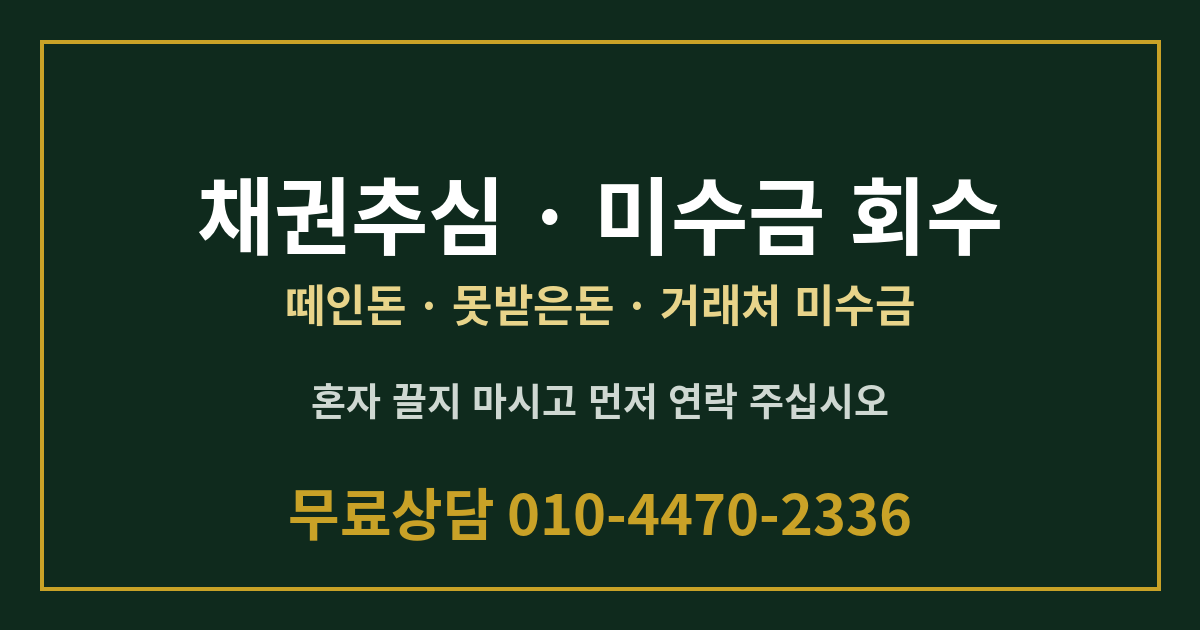
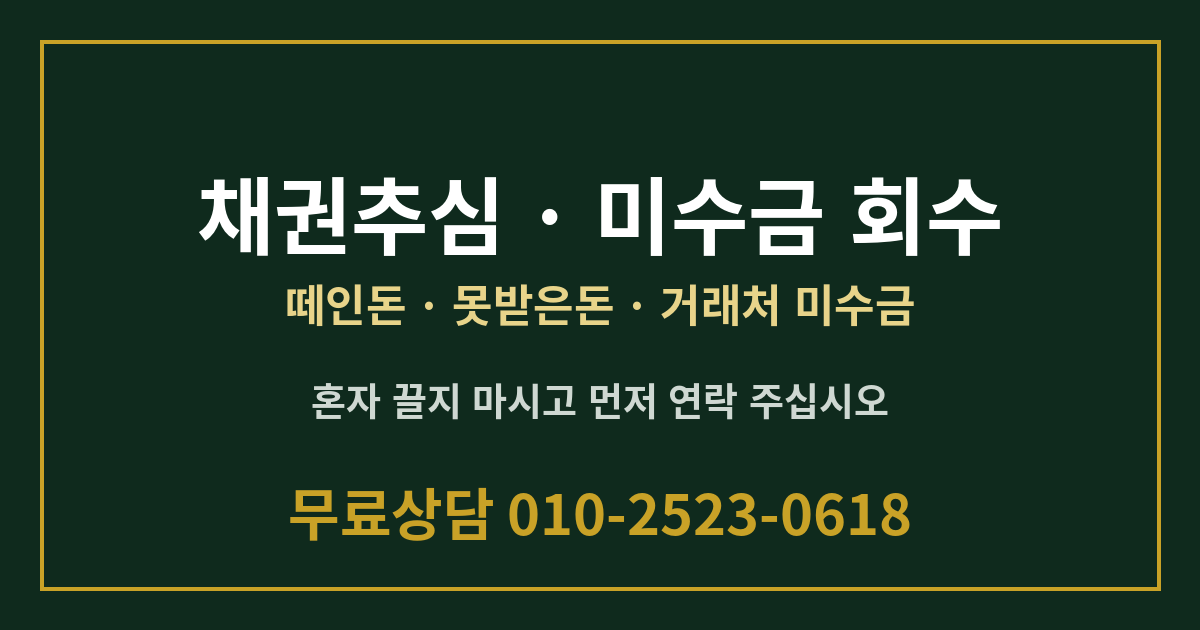
Add files via upload

Changed region(s): [[0.5242, 0.7841, 0.7708, 0.8746]]

diff --git a/admin/index.html b/admin/index.html
@@ -1,0 +1,39 @@
+<!doctype html>
+<html lang="ko"><head><meta charset="utf-8"><meta name="viewport" content="width=device-width,initial-scale=1">
+<meta name="robots" content="noindex,nofollow"><title>글쓰기</title>
+<style>body{font:16px/1.6 "Malgun Gothic",sans-serif;background:#f3f5f4;margin:0}main{max-width:720px;margin:0 auto;padding:20px 16px}
+h1{font-size:22px;color:#03c75a}input,textarea{width:100%;padding:10px;margin:6px 0 14px;border:1px solid #ccd;border-radius:8px;font:inherit}
+textarea{min-height:360px}button{background:#03c75a;color:#fff;border:0;padding:12px 26px;border-radius:8px;font:700 16px inherit;cursor:pointer}
+button.s{background:#999;padding:8px 14px;font-size:13px}label{font-weight:700;font-size:14px}#msg{margin-top:14px;font-weight:700}.box{background:#fff;padding:18px;border-radius:12px}</style></head>
+<body><main><h1>글쓰기</h1><div id="v" class="box"></div><div id="msg"></div></main>
+<script>
+const R='mopp13-boop/mopp13-boop.github.io',$=id=>document.getElementById(id),E=new TextEncoder(),D=new TextDecoder();
+const b64=u=>{let s='';for(let i=0;i<u.length;i+=8192)s+=String.fromCharCode(...u.subarray(i,i+8192));return btoa(s)};
+const ub=s=>Uint8Array.from(atob(s),c=>c.charCodeAt(0));
+async function key(p,salt){const m=await crypto.subtle.importKey('raw',E.encode(p),'PBKDF2',false,['deriveKey']);
+return crypto.subtle.deriveKey({name:'PBKDF2',salt,iterations:250000,hash:'SHA-256'},m,{name:'AES-GCM',length:256},false,['encrypt','decrypt'])}
+async function lock(t,p){const s=crypto.getRandomValues(new Uint8Array(16)),iv=crypto.getRandomValues(new Uint8Array(12));
+const c=new Uint8Array(await crypto.subtle.encrypt({name:'AES-GCM',iv},await key(p,s),E.encode(t)));return JSON.stringify([b64(s),b64(iv),b64(c)])}
+async function unlock(p){const[s,i,c]=JSON.parse(localStorage.vault).map(ub);return D.decode(await crypto.subtle.decrypt({name:'AES-GCM',iv:i},await key(p,s),c))}
+let T='';const say=(t,ok)=>{$('msg').style.color=ok?'#03a04a':'#d33';$('msg').textContent=t};
+function setup(){$('v').innerHTML='<p>처음 한 번만 설정합니다. GitHub 토큰과 사용할 비밀번호를 입력하세요.</p><label>GitHub 토큰</label><input id=t type=password><label>새 비밀번호 (6자 이상)</label><input id=p type=password><button id=b>저장</button>';
+$('b').onclick=async()=>{if($('p').value.length<6||!$('t').value)return say('토큰과 6자 이상 비밀번호를 입력하세요');localStorage.vault=await lock($('t').value.trim(),$('p').value);T=$('t').value.trim();form()}}
+function login(){$('v').innerHTML='<label>비밀번호</label><input id=p type=password><button id=b>들어가기</button> <button class=s id=r>토큰 다시 등록</button>';
+$('b').onclick=async()=>{try{T=await unlock($('p').value);say('');form()}catch(e){say('비밀번호가 틀렸습니다')}};
+$('p').onkeydown=e=>{if(e.key=='Enter')$('b').click()};$('r').onclick=()=>{localStorage.removeItem('vault');setup()}}
+function form(){$('v').innerHTML='<label>제목</label><input id=ti><label>요약 (검색 결과에 보일 설명, 비우면 본문 앞부분)</label><input id=de><label>대표 이미지 (썸네일, 선택)</label><input id=im type=file accept="image/*"><label>내용 (문단 사이는 한 줄 비우기)</label><textarea id=bo></textarea><button id=go>발행</button>';
+$('go').onclick=publish}
+function shrink(f){return new Promise(r=>{const i=new Image();i.onload=()=>{const s=Math.min(1,1200/i.width),c=document.createElement('canvas');c.width=i.width*s;c.height=i.height*s;c.getContext('2d').drawImage(i,0,0,c.width,c.height);c.toBlob(async b=>r(new Uint8Array(await b.arrayBuffer())),'image/jpeg',.85)};i.src=URL.createObjectURL(f)})}
+async function put(path,b,msg){return fetch(`https://api.github.com/repos/${R}/contents/${encodeURI(path)}`,{method:'PUT',headers:{Authorization:'Bearer '+T,Accept:'application/vnd.github+json'},body:JSON.stringify({message:msg,content:b,branch:'main'})})}
+async function publish(){const ti=$('ti').value.trim(),bo=$('bo').value.trim();if(!ti||!bo)return say('제목과 내용을 입력하세요');
+$('go').disabled=true;say('발행 중입니다...',1);
+try{const k=new Date(Date.now()+324e5),ymd=k.toISOString().slice(0,10),full=ymd+' '+k.toISOString().slice(11,19)+' +0900';let ip='';
+const f=$('im').files[0];if(f){ip='assets/uploads/'+ymd+'-'+Date.now()+'.jpg';const r=await put(ip,b64(await shrink(f)),'이미지 추가');if(!r.ok)throw r}
+const de=$('de').value.trim()||bo.replace(/\s+/g,' ').slice(0,90),alt=ti.replace(/[\[\]]/g,'');
+const md=`---\ntitle: ${JSON.stringify(ti)}\ndescription: ${JSON.stringify(de)}\ndate: ${full}\n${ip?`image: /${ip}\n`:''}---\n${ip?`![${alt}](/${ip})\n\n`:''}${bo}\n`;
+let slug=ti.toLowerCase().replace(/[^0-9a-z가-힣\s-]/g,'').trim().replace(/\s+/g,'-').slice(0,60)||'post',r=await put(`_posts/${ymd}-${slug}.md`,b64(E.encode(md)),'글 발행: '+ti);
+if(r.status==422)r=await put(`_posts/${ymd}-${slug}-${Math.floor(Math.random()*900+100)}.md`,b64(E.encode(md)),'글 발행: '+ti);
+if(!r.ok)throw r;say('발행했습니다. 1~2분 뒤 사이트에 나타납니다.',1);setTimeout(form,2500)}
+catch(e){$('go').disabled=false;say(e.status==401||e.status==403?'토큰이 틀렸거나 만료됐거나 권한이 없습니다. 비밀번호 화면에서 "토큰 다시 등록"을 누르세요.':'발행에 실패했습니다. 다시 시도하세요.')}}
+localStorage.vault?login():setup();
+</script></body></html>

diff --git a/assets/style.css b/assets/style.css
@@ -1,11 +1,24 @@
-body{margin:0;font:17px/1.8 "Malgun Gothic",sans-serif;color:#222;background:#fff}
-header,main,footer{max-width:720px;margin:0 auto;padding:16px 20px}
-header{border-bottom:1px solid #ddd}.logo{font-size:22px;font-weight:700;color:#03a94d;text-decoration:none}
-header p{margin:4px 0 0;color:#666;font-size:14px}
-a{color:#0a58ca}.list{list-style:none;padding:0}.list li{padding:14px 0;border-bottom:1px solid #eee}
-.list a{font-size:19px;font-weight:700;text-decoration:none}.list span{margin-left:8px;color:#888;font-size:13px}
-.list p{margin:4px 0 0;color:#555;font-size:15px}
-h1{font-size:26px;line-height:1.4}time{color:#888;font-size:14px}
-.cta{margin-top:32px;padding:14px;background:#f5f7f5}
-footer{border-top:1px solid #ddd;color:#555;font-size:15px;text-align:center}
-img{max-width:100%;height:auto}
+:root{--g:#03c75a;--l:#e5e8e6;--m:#7a7f7c}
+*{box-sizing:border-box}
+body{margin:0;font:16px/1.85 "Malgun Gothic","Apple SD Gothic Neo",sans-serif;color:#222;background:#f3f5f4}
+a{color:inherit}.wrap{max-width:760px;margin:0 auto;padding:0 16px}
+.top{background:#fff;border-bottom:1px solid var(--l);position:sticky;top:0;z-index:5}
+.top .wrap{display:flex;align-items:center;justify-content:space-between;padding:14px 16px}
+.logo{font-size:21px;font-weight:800;color:var(--g);text-decoration:none}
+.write{background:var(--g);color:#fff;padding:7px 18px;border-radius:20px;text-decoration:none;font-size:14px;font-weight:700}
+.intro{padding:26px 0 6px}.intro h2{margin:0 0 4px;font-size:20px}.intro p{margin:0;color:var(--m);font-size:15px}
+.card{display:flex;gap:14px;background:#fff;border:1px solid var(--l);border-radius:12px;padding:14px;margin:14px 0;text-decoration:none}
+.card:hover{border-color:var(--g)}
+.card img{width:150px;height:96px;object-fit:cover;border-radius:8px;flex:none;background:#eee}
+.card h3{margin:0 0 4px;font-size:18px;line-height:1.45}
+.card p{margin:0;color:#555;font-size:14px;line-height:1.6;display:-webkit-box;-webkit-line-clamp:2;-webkit-box-orient:vertical;overflow:hidden}
+.card time{display:block;margin-top:6px;color:var(--m);font-size:13px}
+article{background:#fff;border:1px solid var(--l);border-radius:12px;padding:28px 24px;margin:18px 0}
+article h1{font-size:26px;line-height:1.45;margin:0 0 6px}
+article time{color:var(--m);font-size:14px}
+.body{margin-top:20px;font-size:17px}.body p{margin:0 0 1.2em}.body img{max-width:100%;height:auto;border-radius:8px}
+.cta{margin-top:30px;padding:16px;background:#eefaf3;border-left:4px solid var(--g);border-radius:6px}
+.back{display:inline-block;margin-bottom:24px;color:var(--m);font-size:14px}
+footer{padding:26px 16px 90px;text-align:center;color:var(--m);font-size:14px}
+.call{position:fixed;right:14px;bottom:14px;background:var(--g);color:#fff;padding:12px 20px;border-radius:30px;text-decoration:none;font-weight:700;box-shadow:0 3px 10px rgba(0,0,0,.2);z-index:6}
+@media(max-width:560px){.card img{width:100px;height:72px}article{padding:20px 16px}article h1{font-size:22px}}

diff --git a/_layouts/default.html b/_layouts/default.html
@@ -8,9 +8,9 @@
 <link rel="stylesheet" href="{{ '/assets/style.css' | relative_url }}">
 </head>
 <body>
-<header><a class="logo" href="{{ '/' | relative_url }}">{{ site.title }}</a>
-<p>{{ site.description }}</p></header>
-<main>{{ content }}</main>
-<footer>무료상담 <a href="tel:{{ site.phone }}">{{ site.phone }}</a></footer>
+<div class="top"><div class="wrap"><a class="logo" href="{{ '/' | relative_url }}">{{ site.title }}</a><a class="write" href="{{ '/admin/' | relative_url }}" rel="nofollow">글쓰기</a></div></div>
+<div class="wrap">{{ content }}</div>
+<footer>{{ site.description }}<br>무료상담 <a href="tel:{{ site.phone }}">{{ site.phone }}</a></footer>
+<a class="call" href="tel:{{ site.phone }}">전화상담 {{ site.phone }}</a>
 </body>
 </html>

diff --git a/index.html b/index.html
@@ -1,10 +1,11 @@
 ---
 layout: default
 ---
-<ul class="list">
+<div class="intro"><h2>{{ site.title }}</h2><p>{{ site.description }}</p></div>
 {% for p in site.posts %}
-<li><a href="{{ p.url | relative_url }}">{{ p.title }}</a>
-<span>{{ p.date | date: "%Y.%m.%d" }}</span>
-<p>{{ p.description | default: p.excerpt | strip_html | truncate: 100 }}</p></li>
+{% assign img = p.image.path | default: p.image | default: '/assets/thumb.png' %}
+<a class="card" href="{{ p.url | relative_url }}">
+<img src="{{ img | relative_url }}" alt="{{ p.title | escape }}" loading="lazy">
+<div><h3>{{ p.title }}</h3><p>{{ p.description | default: p.excerpt | strip_html }}</p><time>{{ p.date | date: "%Y.%m.%d" }}</time></div>
+</a>
 {% endfor %}
-</ul>

diff --git a/_layouts/post.html b/_layouts/post.html
@@ -7,4 +7,4 @@ layout: default
 <div class="body">{{ content }}</div>
 <p class="cta">혼자 끌지 마시고 먼저 연락 주십시오. 무료상담 <a href="tel:{{ site.phone }}">{{ site.phone }}</a></p>
 </article>
-<p><a href="{{ '/' | relative_url }}">목록으로</a></p>
+<a class="back" href="{{ '/' | relative_url }}">← 글 목록</a>
